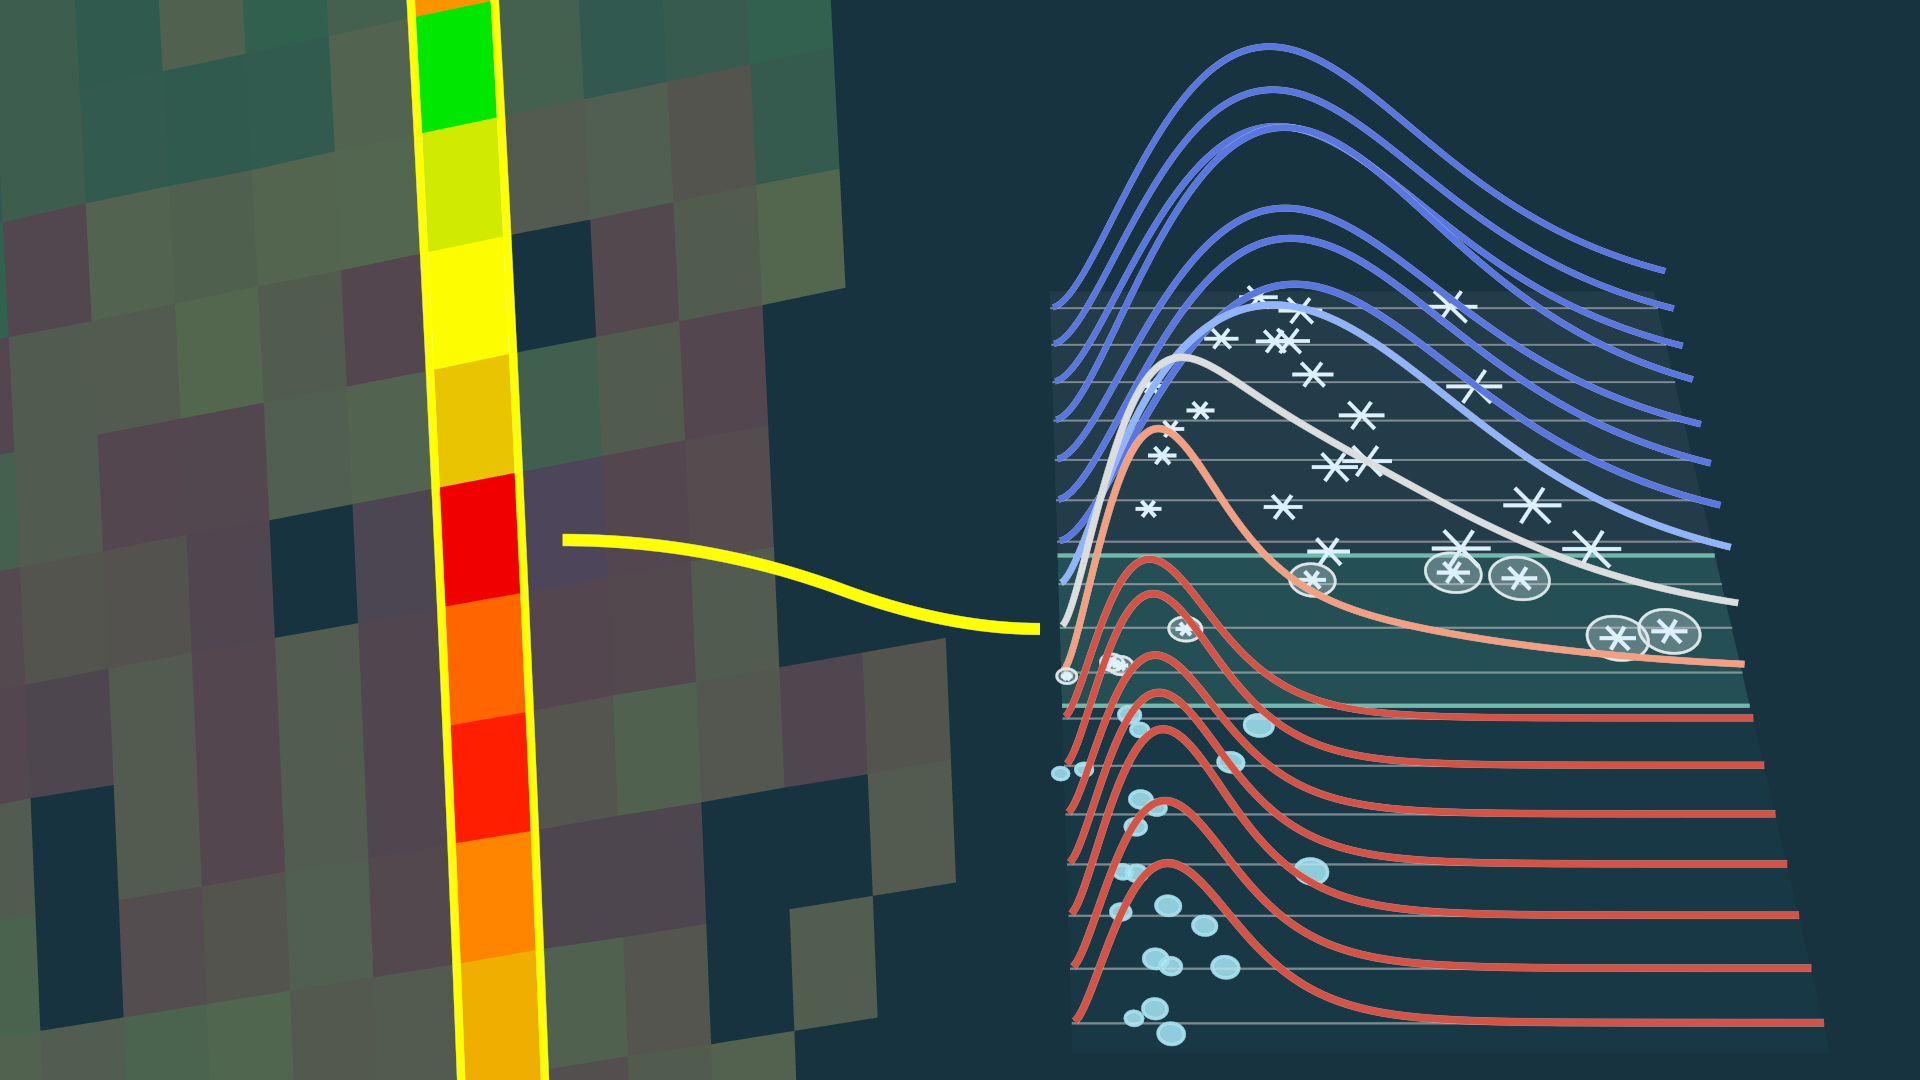
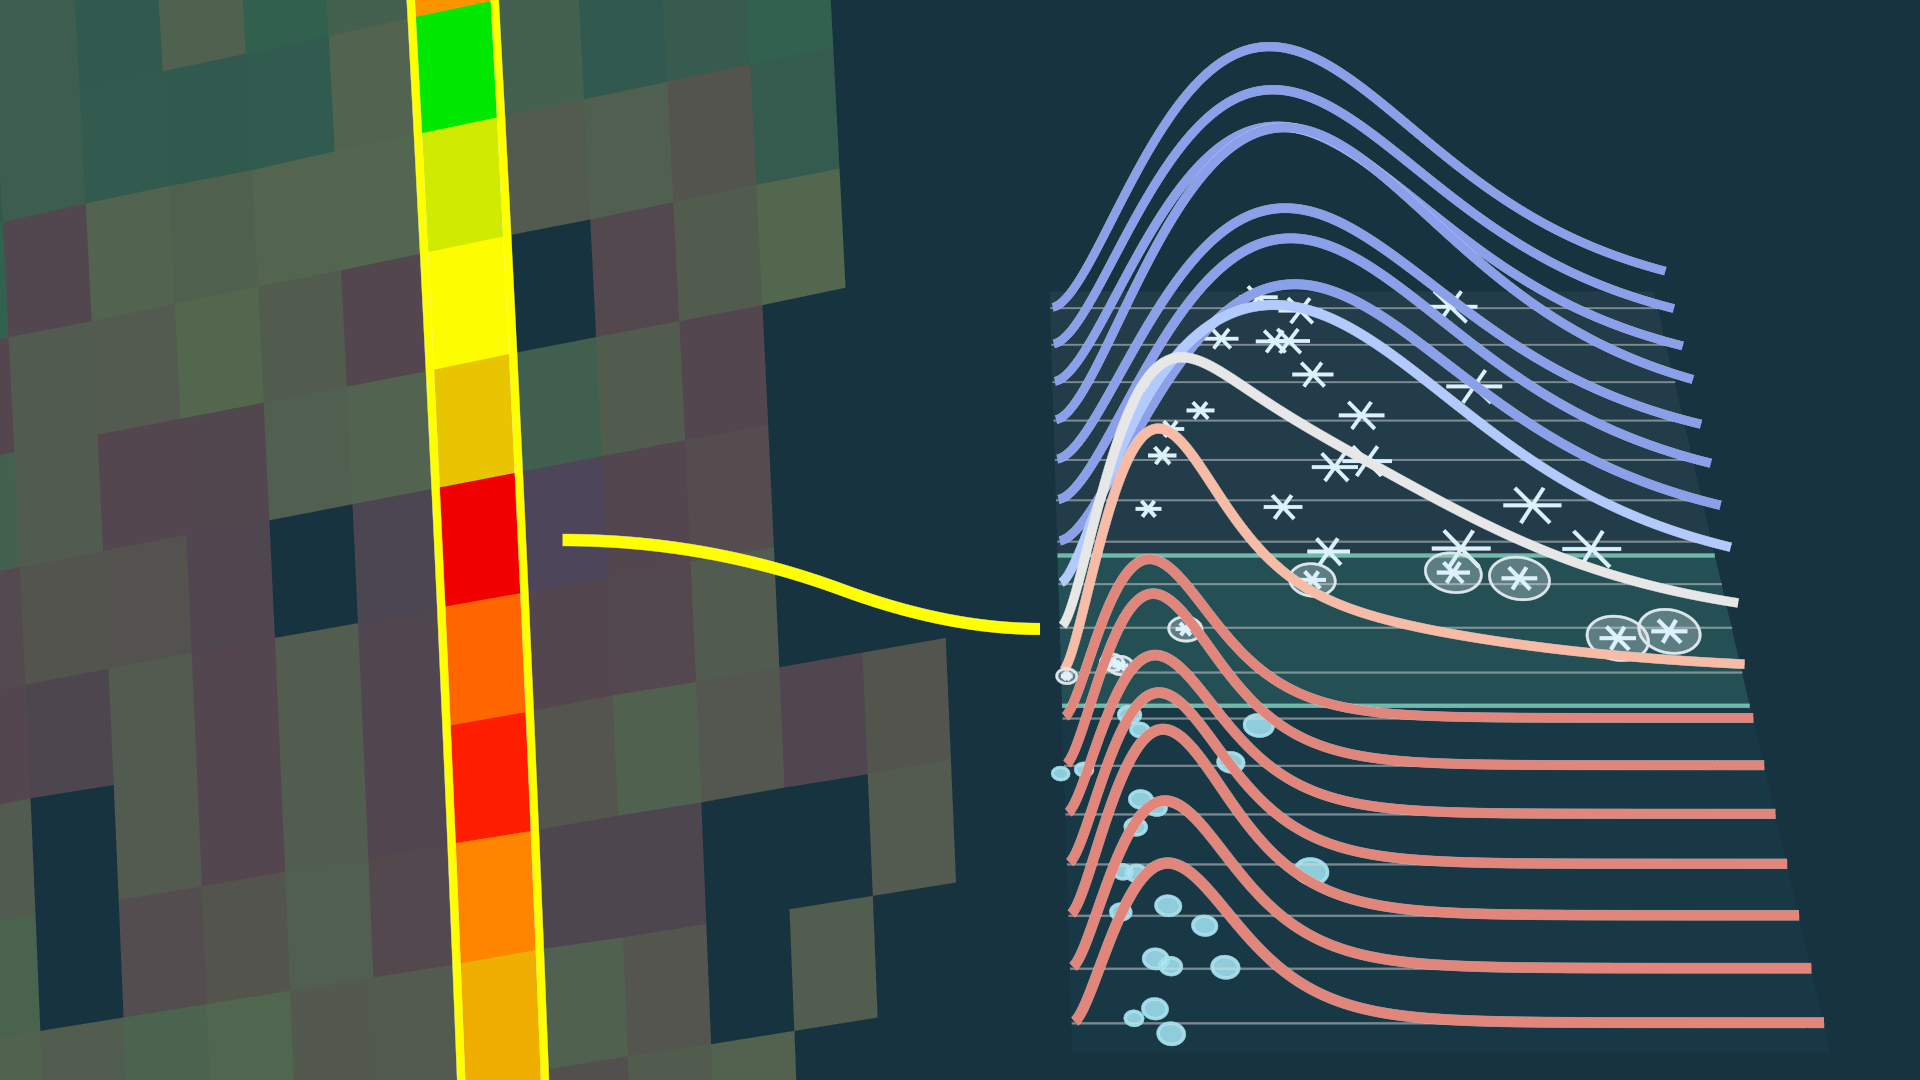
2 NEW THUMBNAILS!!!!!!!!!!!!!!!!!!!!!!!!!!!!!!!!!!!!!!!!!!!!

diff --git a/18_reflectivity_physics/zphys.py b/18_reflectivity_physics/zphys.py
@@ -7586,6 +7586,135 @@ class Thumbnail3(InteractiveScene):
         self.embed()
 
 
+def get_thumbnail_dsd_plot(
+    n_gates, particles_per_gate, trace_width, lighten=0.0, seed=11
+):
+    """Untilted Dsd waterfall for the thumbnails: one size distribution per gate
+    stacked by height, snow on top, melting layer in the middle, rain below.
+    Returns (plot, melting_edges); the caller tilts and places the plot.
+    """
+    column_left, column_right = -1.95, 1.95
+    rain_bottom, melting_bottom, melting_top, snow_top = -3.0, -0.6, 0.6, 3.0
+    diameter_max = 8.0
+    trace_scale = 2.3
+    gate_edges = np.linspace(rain_bottom, snow_top, n_gates + 1)
+    gate_heights = (gate_edges[:-1] + gate_edges[1:]) / 2
+    diameters = np.linspace(0.03, diameter_max, 181)
+    permittivity_colors = get_color_map("coolwarm")
+    snow_shape = diameters**2 * np.exp(-diameters / 1.3)
+    rain_shape = diameters**2 * np.exp(-diameters / 0.45)
+    snow_shape /= snow_shape.max()
+    rain_shape /= rain_shape.max()
+    rng = np.random.default_rng(seed)
+
+    def diameter_to_x(diameter):
+        return column_left + diameter / diameter_max * (column_right - column_left)
+
+    def melt_fraction(height):
+        return float(
+            np.clip((melting_top - height) / (melting_top - melting_bottom), 0, 1)
+        )
+
+    def gate_color(fraction):
+        rgb = np.array(permittivity_colors(0.1 + 0.8 * fraction)[:3])
+        # Lighten so the traces hold up at thumbnail size
+        return rgb_to_color(1 - (1 - lighten) * (1 - rgb))
+
+    column_width = column_right - column_left
+    layers = VGroup(
+        Rectangle(
+            width=column_width,
+            height=snow_top - melting_top,
+            stroke_width=0,
+            fill_color=TOWER_LIGHT,
+            fill_opacity=0.05,
+        ).move_to([0, (snow_top + melting_top) / 2, 0]),
+        Rectangle(
+            width=column_width,
+            height=melting_top - melting_bottom,
+            stroke_width=0,
+            fill_color=TEAL,
+            fill_opacity=0.18,
+        ).move_to([0, 0, 0]),
+        Rectangle(
+            width=column_width,
+            height=melting_bottom - rain_bottom,
+            stroke_width=0,
+            fill_color=BLUE_E,
+            fill_opacity=0.08,
+        ).move_to([0, (melting_bottom + rain_bottom) / 2, 0]),
+    )
+    melting_edges = VGroup(
+        *[
+            Line([column_left, height, 0], [column_right, height, 0])
+            for height in (melting_top, melting_bottom)
+        ]
+    ).set_stroke(TEAL, 3, opacity=0.7)
+    gate_items = []
+    for height in gate_heights:
+        fraction = melt_fraction(height)
+        density = (1 - fraction) * snow_shape + fraction * rain_shape
+        amplitude = 0.65 + 0.35 * (1 - fraction) + 0.8 * fraction * (1 - fraction)
+        amplitude *= rng.uniform(0.85, 1)
+        guide = Line(
+            [column_left, height, 0.01], [column_right, height, 0.01]
+        ).set_stroke(GREY_B, 1.5, opacity=0.35)
+        points = np.column_stack(
+            (
+                diameter_to_x(diameters),
+                np.full_like(diameters, height),
+                0.015 + trace_scale * amplitude * density / density.max(),
+            )
+        )
+        trace = VMobject(
+            stroke_color=gate_color(fraction), stroke_width=trace_width
+        ).set_points_smoothly(points)
+        gate_particles = []
+        for diameter in rng.choice(
+            diameters, particles_per_gate, p=density / density.sum()
+        ):
+            radius = 0.05 + 0.025 * min(diameter, 5)
+            position = np.array(
+                [
+                    diameter_to_x(diameter) + rng.uniform(-0.2, 0.2),
+                    height + rng.uniform(-0.1, 0.1),
+                    0.02,
+                ]
+            )
+            snowflake = VGroup(
+                *[
+                    Line(-radius * RIGHT, radius * RIGHT).rotate(angle)
+                    for angle in (0, PI / 3, 2 * PI / 3)
+                ]
+            ).set_stroke(ICE, 3)
+            if fraction == 0:
+                particle = snowflake
+            elif fraction == 1:
+                particle = (
+                    Circle(radius=0.8 * radius)
+                    .set_fill(BLUE_B, 0.9)
+                    .set_stroke(BLUE_B, 2)
+                )
+            else:
+                particle = VGroup(
+                    Circle(radius=radius)
+                    .set_fill(TOWER_LIGHT, 0.3)
+                    .set_stroke(TOWER_LIGHT, 2),
+                    snowflake.scale(0.6),
+                )
+            gate_particles.append((position[1], particle.move_to(position)))
+        gate_items.append((height, guide, trace, gate_particles))
+
+    # Painter's order for the tilted view: far gates (top) first, near gates
+    # (bottom) last; within a gate, particles behind the trace go before it.
+    plot = VGroup(layers, melting_edges)
+    for height, guide, trace, gate_particles in reversed(gate_items):
+        gate_particles.sort(key=lambda item: -item[0])
+        behind = [m for y, m in gate_particles if y > height]
+        in_front = [m for y, m in gate_particles if y <= height]
+        plot.add(guide, *behind, trace, *in_front)
+    return plot, melting_edges
+
 class Thumbnail4(InteractiveScene):
     default_camera_config = {"background_color": BACKGROUND_COLOR, "fps": 60}
     samples = 4
@@ -7598,7 +7727,7 @@ class Thumbnail4(InteractiveScene):
         plot_tilt_deg = 45
         # Perspective enlarges the near edge, so the on-screen height ends up ~0.92
         plot_height = fh(self, 0.91)
-        trace_width = 5
+        trace_width = 7
         n_gates = 17
         particles_per_gate = 3
 
@@ -7608,125 +7737,9 @@ class Thumbnail4(InteractiveScene):
             self, zoom_pixel_heights, dim_opacity, pixel_anchor, highlight="column"
         )
 
-        # Right: size distribution per gate stacked by height (Dsd waterfall look)
-        column_left, column_right = -1.95, 1.95
-        rain_bottom, melting_bottom, melting_top, snow_top = -3.0, -0.6, 0.6, 3.0
-        diameter_max = 8.0
-        trace_scale = 2.3
-        gate_edges = np.linspace(rain_bottom, snow_top, n_gates + 1)
-        gate_heights = (gate_edges[:-1] + gate_edges[1:]) / 2
-        diameters = np.linspace(0.03, diameter_max, 181)
-        permittivity_colors = get_color_map("coolwarm")
-        snow_shape = diameters**2 * np.exp(-diameters / 1.3)
-        rain_shape = diameters**2 * np.exp(-diameters / 0.45)
-        snow_shape /= snow_shape.max()
-        rain_shape /= rain_shape.max()
-        rng = np.random.default_rng(11)
-
-        def diameter_to_x(diameter):
-            return column_left + diameter / diameter_max * (column_right - column_left)
-
-        def melt_fraction(height):
-            return float(
-                np.clip((melting_top - height) / (melting_top - melting_bottom), 0, 1)
-            )
-
-        def gate_color(fraction):
-            return rgb_to_color(permittivity_colors(0.1 + 0.8 * fraction)[:3])
-
-        column_width = column_right - column_left
-        layers = VGroup(
-            Rectangle(
-                width=column_width,
-                height=snow_top - melting_top,
-                stroke_width=0,
-                fill_color=TOWER_LIGHT,
-                fill_opacity=0.05,
-            ).move_to([0, (snow_top + melting_top) / 2, 0]),
-            Rectangle(
-                width=column_width,
-                height=melting_top - melting_bottom,
-                stroke_width=0,
-                fill_color=TEAL,
-                fill_opacity=0.18,
-            ).move_to([0, 0, 0]),
-            Rectangle(
-                width=column_width,
-                height=melting_bottom - rain_bottom,
-                stroke_width=0,
-                fill_color=BLUE_E,
-                fill_opacity=0.08,
-            ).move_to([0, (melting_bottom + rain_bottom) / 2, 0]),
+        plot, melting_edges = get_thumbnail_dsd_plot(
+            n_gates, particles_per_gate, trace_width, lighten=0.3
         )
-        melting_edges = VGroup(
-            *[
-                Line([column_left, height, 0], [column_right, height, 0])
-                for height in (melting_top, melting_bottom)
-            ]
-        ).set_stroke(TEAL, 3, opacity=0.7)
-        gate_items = []
-        for height in gate_heights:
-            fraction = melt_fraction(height)
-            density = (1 - fraction) * snow_shape + fraction * rain_shape
-            amplitude = 0.65 + 0.35 * (1 - fraction) + 0.8 * fraction * (1 - fraction)
-            amplitude *= rng.uniform(0.85, 1)
-            guide = Line(
-                [column_left, height, 0.01], [column_right, height, 0.01]
-            ).set_stroke(GREY_B, 1.5, opacity=0.35)
-            points = np.column_stack(
-                (
-                    diameter_to_x(diameters),
-                    np.full_like(diameters, height),
-                    0.015 + trace_scale * amplitude * density / density.max(),
-                )
-            )
-            trace = VMobject(
-                stroke_color=gate_color(fraction), stroke_width=trace_width
-            ).set_points_smoothly(points)
-            gate_particles = []
-            for diameter in rng.choice(
-                diameters, particles_per_gate, p=density / density.sum()
-            ):
-                radius = 0.05 + 0.025 * min(diameter, 5)
-                position = np.array(
-                    [
-                        diameter_to_x(diameter) + rng.uniform(-0.2, 0.2),
-                        height + rng.uniform(-0.1, 0.1),
-                        0.02,
-                    ]
-                )
-                snowflake = VGroup(
-                    *[
-                        Line(-radius * RIGHT, radius * RIGHT).rotate(angle)
-                        for angle in (0, PI / 3, 2 * PI / 3)
-                    ]
-                ).set_stroke(ICE, 3)
-                if fraction == 0:
-                    particle = snowflake
-                elif fraction == 1:
-                    particle = (
-                        Circle(radius=0.8 * radius)
-                        .set_fill(BLUE_B, 0.9)
-                        .set_stroke(BLUE_B, 2)
-                    )
-                else:
-                    particle = VGroup(
-                        Circle(radius=radius)
-                        .set_fill(TOWER_LIGHT, 0.3)
-                        .set_stroke(TOWER_LIGHT, 2),
-                        snowflake.scale(0.6),
-                    )
-                gate_particles.append((position[1], particle.move_to(position)))
-            gate_items.append((height, guide, trace, gate_particles))
-
-        # Painter's order for the tilted view: far gates (top) first, near gates
-        # (bottom) last; within a gate, particles behind the trace go before it.
-        plot = VGroup(layers, melting_edges)
-        for height, guide, trace, gate_particles in reversed(gate_items):
-            gate_particles.sort(key=lambda item: -item[0])
-            behind = [m for y, m in gate_particles if y > height]
-            in_front = [m for y, m in gate_particles if y <= height]
-            plot.add(guide, *behind, trace, *in_front)
         plot.apply_matrix(
             Rotation.from_euler("x", -plot_tilt_deg, degrees=True).as_matrix()
         )
@@ -7746,6 +7759,106 @@ class Thumbnail4(InteractiveScene):
         ).set_z_index(3)
 
         self.add(rhi_image, column_outline, plot, callout)
+
+        self.wait(0.5)
+
+        self.embed()
+
+
+class Thumbnail5(InteractiveScene):
+    default_camera_config = {"background_color": BACKGROUND_COLOR, "fps": 60}
+    samples = 4
+
+    def construct(self):
+        # RHI crop (km) stretched onto the left half; bleeds past the frame edges
+        ground_range_km = (10, 32.8)
+        height_range_km = (0, 5.4)
+        band_height_km = 2.35
+        band_thickness_km = 0.7
+        outside_band_opacity = 0.85
+        rhi_left, rhi_right = -fw(self, 0.5) - 0.2, -0.6
+        rhi_bottom, rhi_top = -fh(self, 0.5) - 0.2, fh(self, 0.5) + 0.2
+        label_center = np.array([-fw(self, 0.27), fh(self, 0.3), 0])
+        plot_center = np.array([fw(self, 0.3), 0.1, 0])
+        plot_tilt_deg = 45
+        plot_height = fh(self, 0.9)
+        n_gates = 13
+        particles_per_gate = 3
+        trace_width = 9
+
+        self.frame.set_focal_distance(fh(self, 3))
+
+        rhi_cells = get_olympex_rhi_cells()
+        km_corners = rhi_cells["corners"]
+        x_scale = (rhi_right - rhi_left) / (ground_range_km[1] - ground_range_km[0])
+        y_scale = (rhi_top - rhi_bottom) / (height_range_km[1] - height_range_km[0])
+        corners = np.zeros((*km_corners.shape[:2], 3))
+        corners[..., 0] = rhi_left + (km_corners[..., 0] - ground_range_km[0]) * x_scale
+        corners[..., 1] = rhi_bottom + (km_corners[..., 1] - height_range_km[0]) * y_scale
+        in_window = (
+            (corners[..., 0].max(axis=1) > -fw(self, 0.5))
+            & (corners[..., 1].max(axis=1) > -fh(self, 0.5))
+            & (corners[..., 1].min(axis=1) < fh(self, 0.5))
+        )
+        cell_heights_km = km_corners[..., 1].mean(axis=1)
+        rgba = rhi_cells["rgba"].copy()
+        rgba[:, 3] = np.where(
+            np.abs(cell_heights_km - band_height_km) < band_thickness_km / 2,
+            1,
+            outside_band_opacity,
+        )
+        points = corners[in_window][:, [0, 1, 2, 0, 2, 3]].reshape(-1, 3)
+        rhi_image = (
+            TriangleMeshMobject(
+                points,
+                np.broadcast_to(OUT, points.shape),
+                np.repeat(rgba[in_window], 6, axis=0),
+            )
+            .set_shading(0, 0, 0)
+            .deactivate_depth_test()
+        )
+        band_y = rhi_bottom + (band_height_km - height_range_km[0]) * y_scale
+
+        label = Text("Bright band", font=FONT, weight="BOLD")
+        label.set_width(fw(self, 0.38)).move_to(label_center)
+        label.set_stroke(BACKGROUND_COLOR, 12, behind=True).set_z_index(4)
+        arrow = Arrow(
+            label.get_bottom() + DOWN * 0.3,
+            [label_center[0], band_y + 0.6, 0],
+            buff=0,
+            fill_color=WHITE,
+            thickness=12,
+            tip_width_ratio=3.5,
+        )
+        arrow.set_stroke(BACKGROUND_COLOR, 8, behind=True).set_z_index(4)
+
+        plot, melting_edges = get_thumbnail_dsd_plot(
+            n_gates, particles_per_gate, trace_width, lighten=0.15
+        )
+        plot.apply_matrix(
+            Rotation.from_euler("x", -plot_tilt_deg, degrees=True).as_matrix()
+        )
+        plot.set_height(plot_height).move_to(plot_center)
+
+        callout_start = np.array([rhi_right + 0.1, band_y, 0])
+        callout_end = (
+            melting_edges[0].get_start() + melting_edges[1].get_start()
+        ) / 2 + LEFT * 0.15
+        # Arc hopping from the band to the melting layer, arrowheads on both ends
+        callout_reach = 0.5 * (callout_end[0] - callout_start[0])
+        callout_lift = 0.4
+        callout = TipableVMobject(stroke_color=YELLOW, stroke_width=9)
+        callout.add_cubic_bezier_curve(
+            callout_start,
+            callout_start + RIGHT * callout_reach + UP * callout_lift,
+            callout_end + LEFT * callout_reach + UP * callout_lift,
+            callout_end,
+        )
+        for at_start in (False, True):
+            callout.add_tip(at_start=at_start, length=0.4, width=0.34)
+        callout.set_z_index(3)
+
+        self.add(rhi_image, label, arrow, plot, callout)
 
         self.wait(0.5)
 
